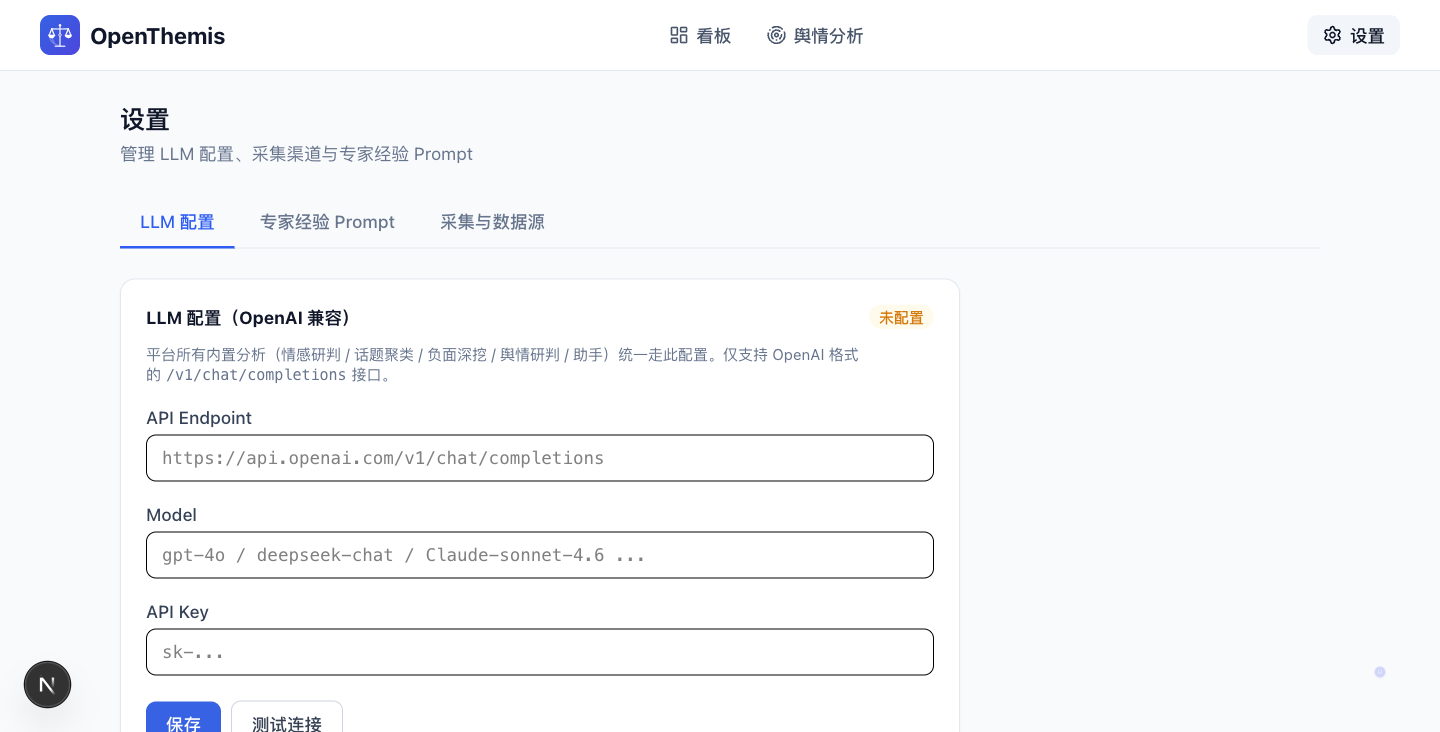
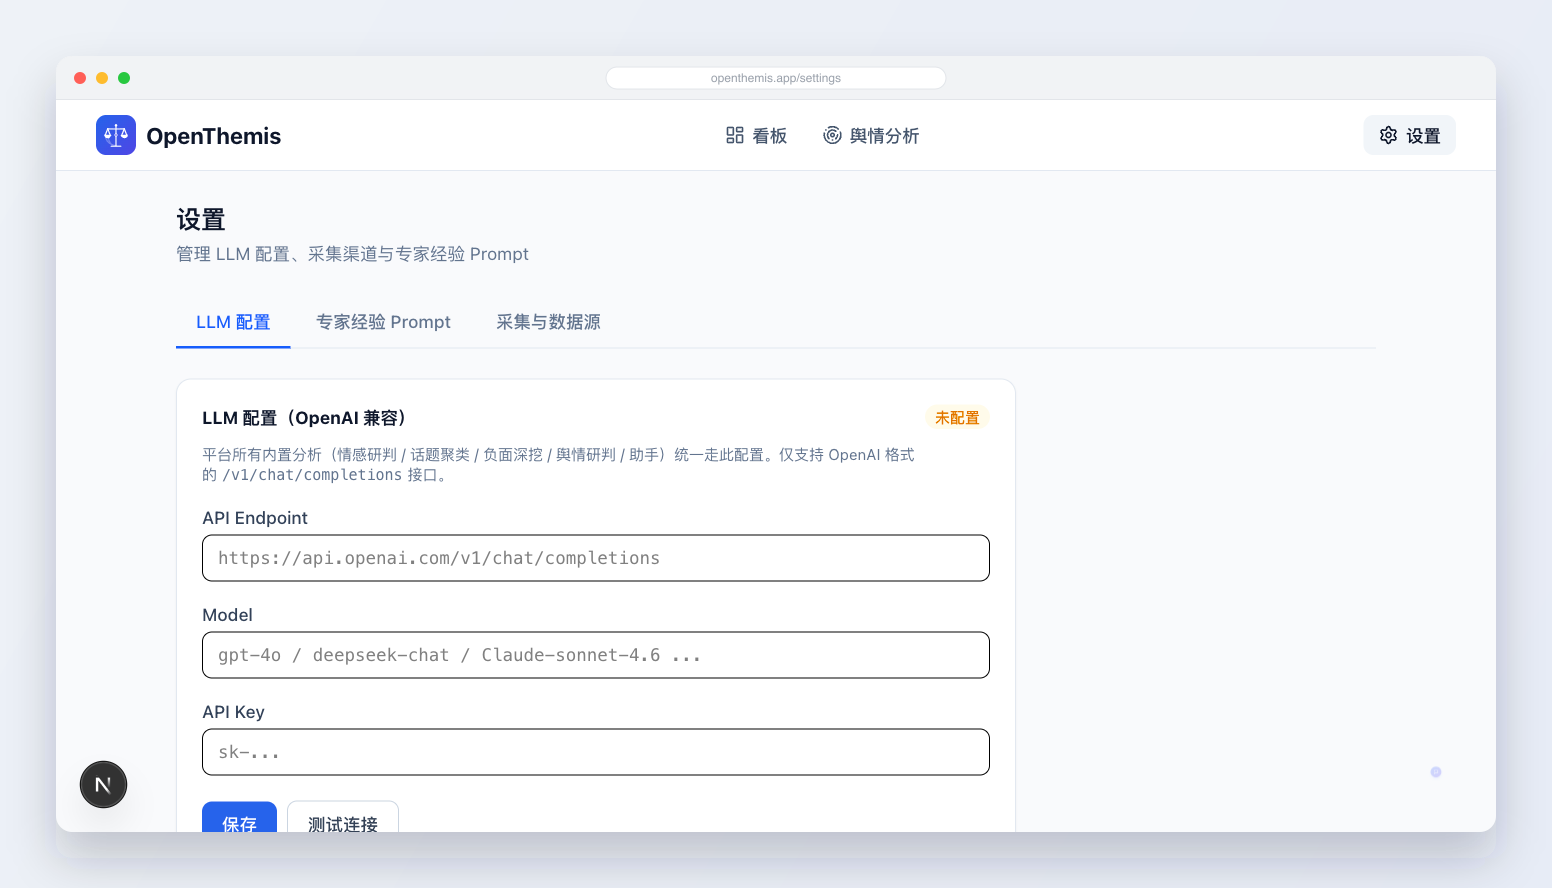
docs: polish screenshots with browser frame + shadow, center in README

diff --git a/README.md b/README.md
@@ -24,22 +24,22 @@ OpenThemis（Themis 舆情分析系统）是一个面向品牌、公关与运营
 ### 首页 · 实时舆情概览
 启动后从微博渠道随机捞取热搜话题，实时展示情感分布、热门话题与风险研判。
 
-![首页](docs/screenshots/01-home.png)
+<p align="center"><img src="docs/screenshots/01-home.png" width="820" alt="首页" /></p>
 
 ### 舆情看板 · 定时刷新 + 话题关键词趋势
 支持 30 秒 / 1 / 5 / 10 分钟定时刷新，折线图展示关键词热度随时间的变化，并提供情感分布、分类分布与实时热搜榜。
 
-![舆情看板](docs/screenshots/02-dashboard.png)
+<p align="center"><img src="docs/screenshots/02-dashboard.png" width="820" alt="舆情看板" /></p>
 
 ### 舆情分析 · 多渠道采集与研判
 输入监测主题，AI 自动拆解关键词并多渠道采集，输出情感、话题、负面深挖与舆情研判。
 
-![舆情分析](docs/screenshots/03-radar.png)
+<p align="center"><img src="docs/screenshots/03-radar.png" width="820" alt="舆情分析" /></p>
 
 ### 设置 · LLM 配置（OpenAI 兼容）
 所有内置分析统一走可视化配置的 OpenAI 兼容 LLM，支持热更新与连接测试。
 
-![设置](docs/screenshots/04-settings.png)
+<p align="center"><img src="docs/screenshots/04-settings.png" width="820" alt="设置" /></p>
 
 ## 四、技术架构（三层，可独立部署/替换）
 
